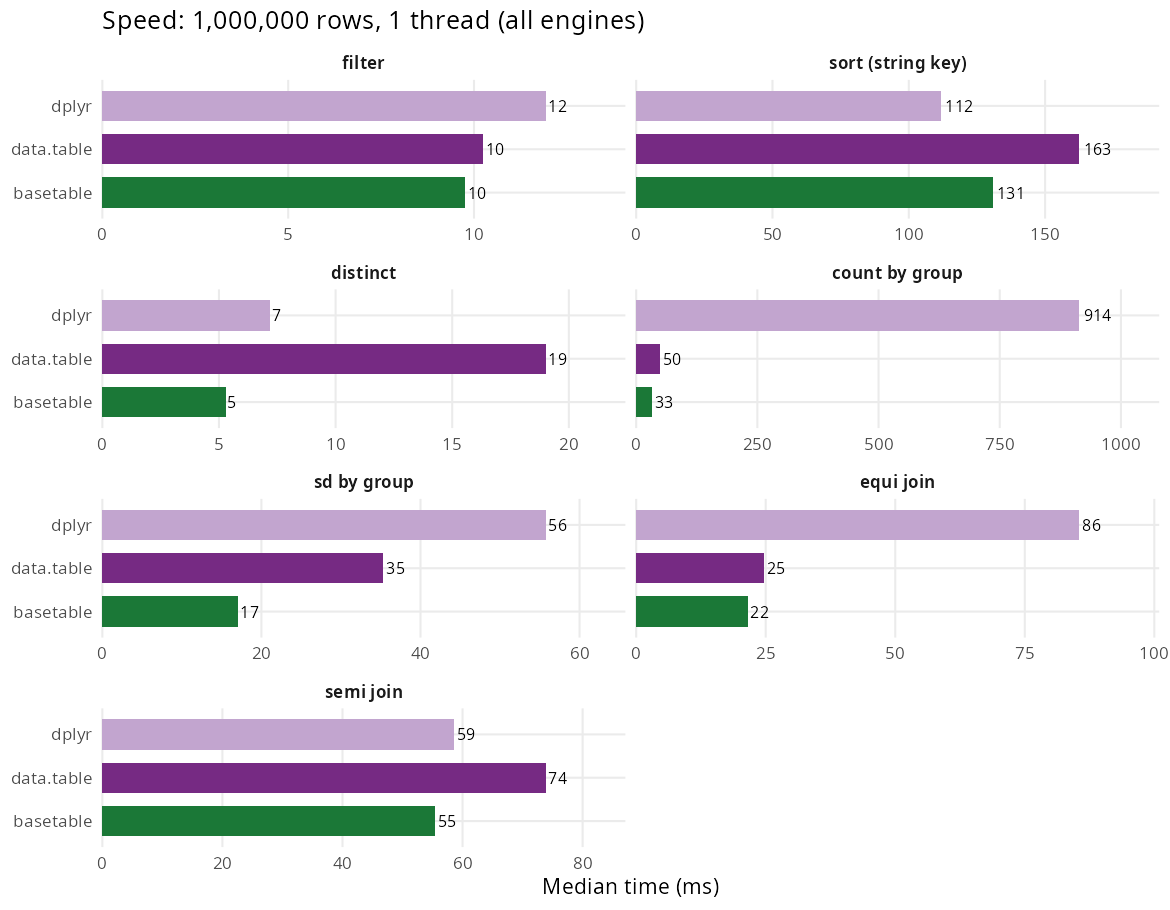
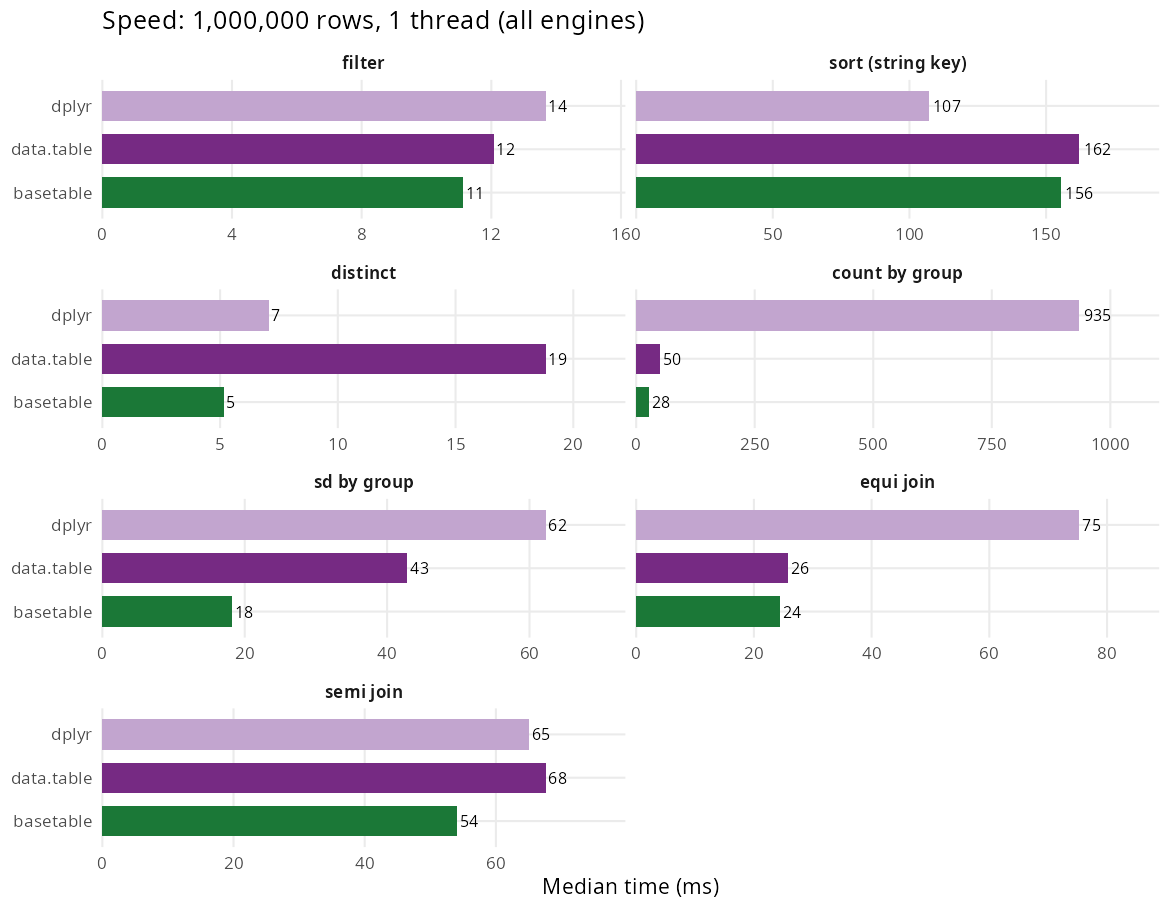
Refresh single-thread benchmark results

diff --git a/inst/benchmarks/benchmark-results.md b/inst/benchmarks/benchmark-results.md
@@ -4,22 +4,22 @@
 
 | Operation | basetable | data.table | dplyr | basetable mem | data.table mem | dplyr mem |
 | --- | ---: | ---: | ---: | ---: | ---: | ---: |
-| filter | 12 ms | 26 ms | 12 ms | 14.51 MB | 21.19 MB | 28.34 MB |
-| sort (string key) | 68 ms | 95 ms | 106 ms | 34.37 MB | 46.85 MB | 68.83 MB |
-| distinct | 4 ms | 37 ms | 9 ms | 0.03 MB | 19.59 MB | 12.02 MB |
-| count by group | 28 ms | 59 ms | 911 ms | 1.16 MB | 30.27 MB | 29.72 MB |
-| sd by group | 12 ms | 83 ms | 58 ms | 0.05 MB | 26.91 MB | 36.02 MB |
-| equi join | 19 ms | 19 ms | 74 ms | 7.64 MB | 7.63 MB | 101.08 MB |
-| semi join | 16 ms | 96 ms | 43 ms | 3.84 MB | 57.80 MB | 81.57 MB |
+| filter | 10 ms | 13 ms | 13 ms | 14.51 MB | 21.19 MB | 28.34 MB |
+| sort (string key) | 57 ms | 35 ms | 77 ms | 34.37 MB | 46.85 MB | 68.83 MB |
+| distinct | 4 ms | 17 ms | 13 ms | 0.03 MB | 19.59 MB | 12.02 MB |
+| count by group | 23 ms | 59 ms | 838 ms | 1.16 MB | 30.27 MB | 29.72 MB |
+| sd by group | 12 ms | 25 ms | 56 ms | 0.05 MB | 26.91 MB | 36.02 MB |
+| equi join | 18 ms | 18 ms | 67 ms | 7.64 MB | 7.63 MB | 101.08 MB |
+| semi join | 15 ms | 60 ms | 56 ms | 3.84 MB | 57.80 MB | 81.57 MB |
 
 ### Single thread (basetable and data.table pinned to 1)
 
 | Operation | basetable | data.table | dplyr | basetable mem | data.table mem | dplyr mem |
 | --- | ---: | ---: | ---: | ---: | ---: | ---: |
-| filter | 10 ms | 10 ms | 12 ms | 10.58 MB | 19.40 MB | 27.01 MB |
-| sort (string key) | 131 ms | 163 ms | 112 ms | 34.33 MB | 46.75 MB | 68.11 MB |
+| filter | 11 ms | 12 ms | 14 ms | 10.58 MB | 19.40 MB | 27.01 MB |
+| sort (string key) | 156 ms | 162 ms | 107 ms | 34.33 MB | 46.75 MB | 68.11 MB |
 | distinct | 5 ms | 19 ms | 7 ms | 0.02 MB | 19.18 MB | 11.85 MB |
-| count by group | 33 ms | 50 ms | 914 ms | 1.14 MB | 29.41 MB | 28.80 MB |
-| sd by group | 17 ms | 35 ms | 56 ms | 0.03 MB | 26.84 MB | 35.99 MB |
-| equi join | 22 ms | 25 ms | 86 ms | 7.63 MB | 7.63 MB | 100.60 MB |
-| semi join | 55 ms | 74 ms | 59 ms | 3.81 MB | 57.37 MB | 81.52 MB |
+| count by group | 28 ms | 50 ms | 935 ms | 1.14 MB | 29.41 MB | 28.80 MB |
+| sd by group | 18 ms | 43 ms | 62 ms | 0.03 MB | 26.84 MB | 35.99 MB |
+| equi join | 24 ms | 26 ms | 75 ms | 7.63 MB | 7.63 MB | 100.60 MB |
+| semi join | 54 ms | 68 ms | 65 ms | 3.81 MB | 57.37 MB | 81.52 MB |
